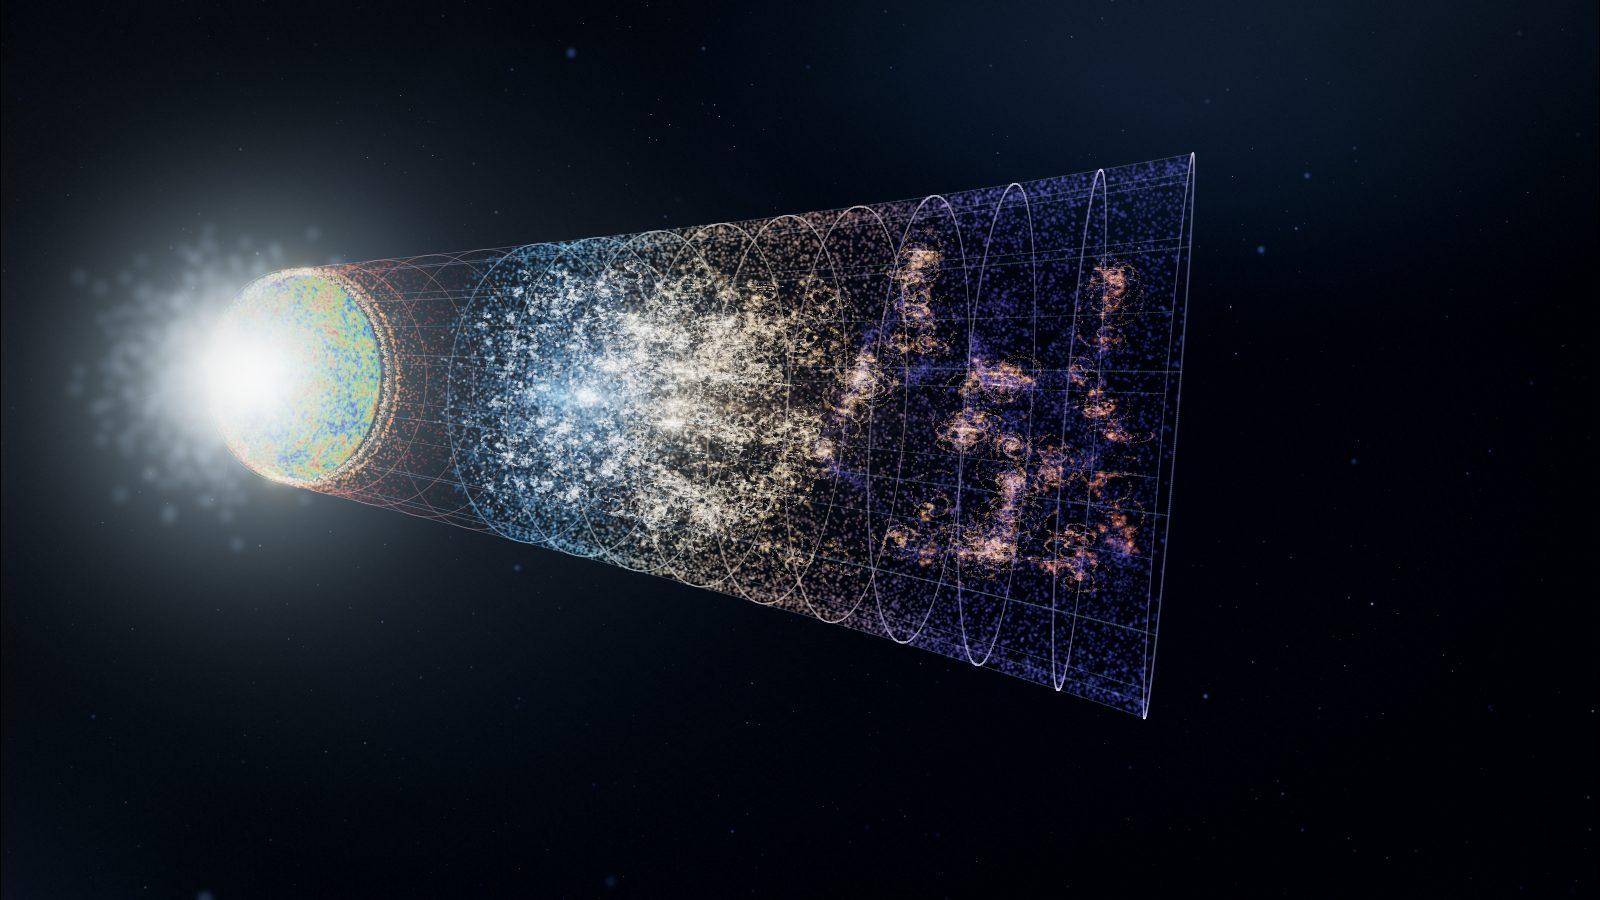
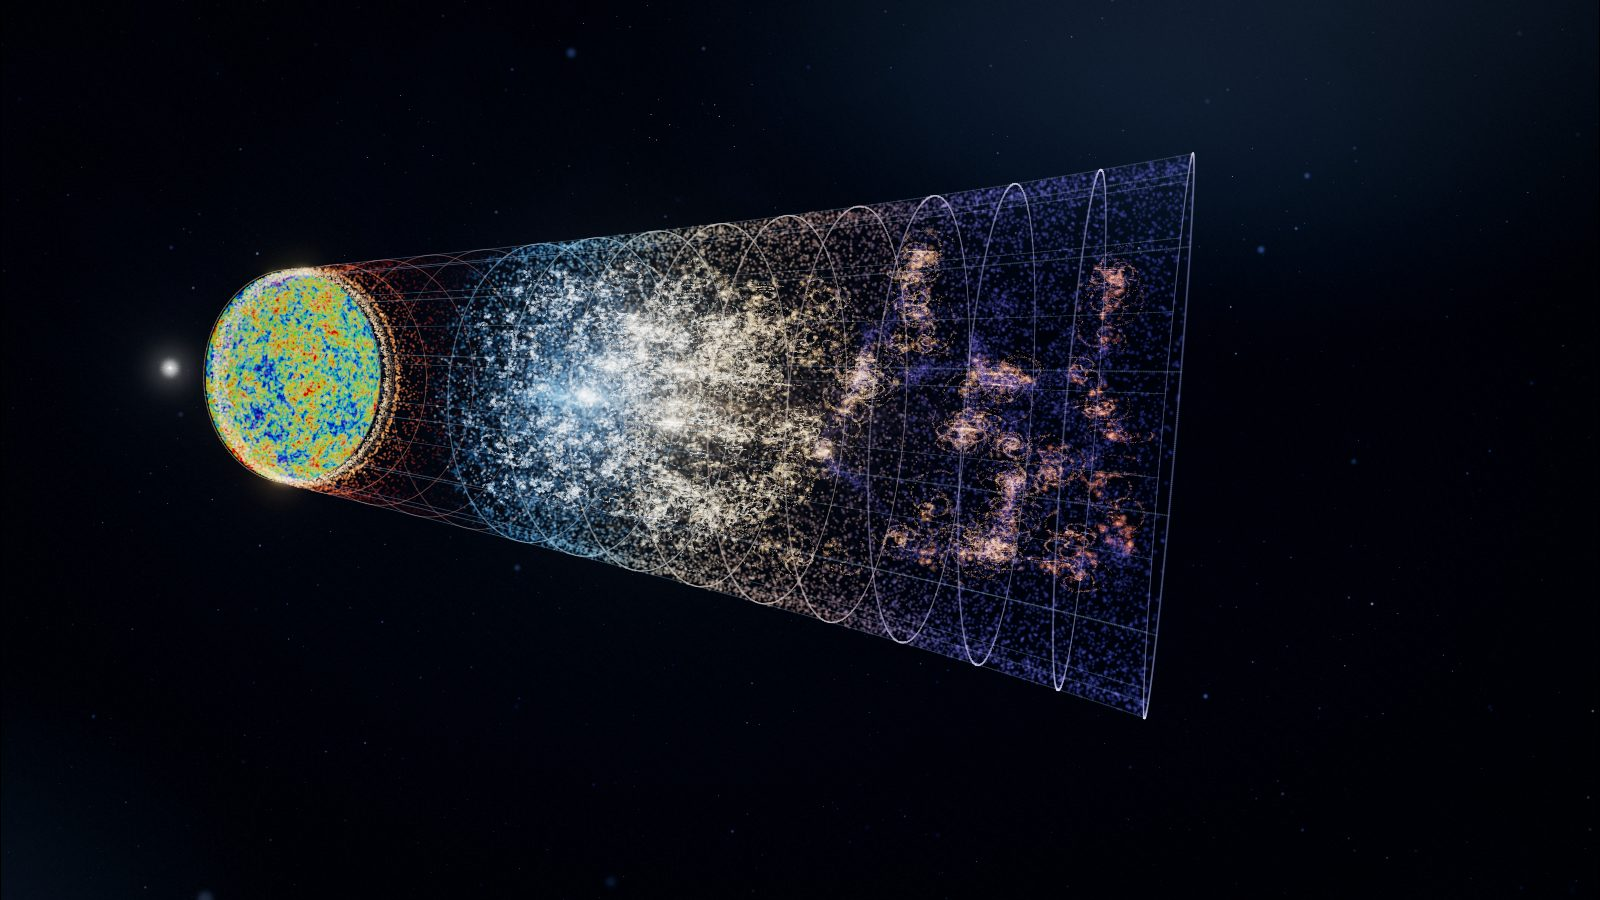
feat(innoday): the Big Bang a bright point beside the CMB disk; slide 27's hum on the slide
Owner: "don't like this fuzzy big bang should be a bit displaced, and point-like but bright".

Claude-Session: https://claude.ai/code/session_01LomYF1saeBXf9UwwiHvwyK

diff --git a/talks/2026_10_23_Innoday/setup/funnel.js b/talks/2026_10_23_Innoday/setup/funnel.js
@@ -98,7 +98,8 @@ const wallLight = (t, dawn) => t < 0 ? 0.75 : t < dawn ? 0.06 + 0.84 * Math.exp(
 
 const VERT = /* glsl */ `
 attribute vec3 aColor; attribute float aSize, aSeed, aTw, aAlpha, aFlare, aDisk, aLay, aKey;
-uniform float uTime, uSize, uAlpha, uFlare, uDisk, uBody, uMesh;
+uniform float uTime, uSize, uAlpha, uFlare, uDisk, uBody, uMesh, uOcc, uR0;
+uniform vec3 uCam;
 varying vec3 vColor; varying float vAlpha;
 ${POINT_GLSL}
 void main() {
@@ -117,7 +118,16 @@ void main() {
   // passes through the haze: no big sprite flares across the frame)
   // (the mesh from 5 units: its dotted lines, seen edge-on close by, crossed slide 6's frame)
   float near = aLay < 0.5 ? smoothstep(0.25, 0.6 + 0.5 * aSize, -mv.z) : smoothstep(1.5, 5.0, -mv.z);
-  vColor = aColor; vAlpha = uAlpha * aAlpha * tw * coverage(ps) * near * mix(1.0, uFlare, aFlare) * mix(1.0, uDisk, aDisk) * shown;
+  // the CMB disk hides what lies behind it (the neck, the Big Bang): these grains draw
+  // without a depth test, so a grain behind the disk plane whose line of sight crosses the
+  // disk is dropped (the neck's white tip showed through the map on slide 4). uCam is the
+  // camera in the funnel's frame (z along the axis, the disk at z = 0.02)
+  float occ = 1.0;
+  if (uOcc > 0.5 && position.z < 0.0 && uCam.z > 0.02) {
+    float k = (uCam.z - 0.02) / (uCam.z - position.z);
+    occ = smoothstep(uR0 * 0.97, uR0 * 1.03, length(uCam.xy + k * (position.xy - uCam.xy)));
+  }
+  vColor = aColor; vAlpha = uAlpha * aAlpha * tw * coverage(ps) * near * mix(1.0, uFlare, aFlare) * mix(1.0, uDisk, aDisk) * shown * occ;
 }`
 const FRAG = /* glsl */ `
 varying vec3 vColor; varying float vAlpha;
@@ -175,19 +185,25 @@ function buildFunnel(o, ctx) {
     add(s, r * Math.cos(t), r * Math.sin(t), ramp(WALL, s / L), 1.0, 0.3, 0.75)
   }
   // the Big Bang: a white-hot flare with a soft glow and spikes, just before the neck
-  const bb = -2.6
+  // (owner, 21 Oct: "don't like this fuzzy big bang should be a bit displaced, and
+  // point-like but bright"): a small, intense point a little before the neck's tip (-1.3),
+  // so the point, the neck and the CMB ring read apart. It was 1 300 sprites of size 4.5
+  // in a 0.6 ball and 2 600 of size 14 in a 4-unit glow: a white bloom over the disk.
+  // At -3.2 slide 4's camera saw it through the disk's face (on the axis behind the disk it
+  // projects inside the rim up to about -4.3); at -5.8 it stands just beside the rim.
+  const bb = o.bigBang ?? -5.8
   flare = 1
-  for (let i = 0; i < 1300; i++) {   // the core
-    const r = 0.6 * Math.abs(gauss(i)), t = hash(i * 2.3) * Math.PI * 2, u = hash(i * 4.1) * 2 - 1
-    add(bb + r * u, r * Math.sqrt(1 - u * u) * Math.cos(t), r * Math.sqrt(1 - u * u) * Math.sin(t), W, 4.5, 0.1, 1)
+  for (let i = 0; i < 160; i++) {    // the point: many small grains on one spot, so it blooms to a star, not a disc
+    const r = 0.05 * Math.abs(gauss(i)), t = hash(i * 2.3) * Math.PI * 2, u = hash(i * 4.1) * 2 - 1
+    add(bb + r * u, r * Math.sqrt(1 - u * u) * Math.cos(t), r * Math.sqrt(1 - u * u) * Math.sin(t), W, 1.5, 0.02, 1)
   }
-  for (let i = 0; i < 2600; i++) {   // the glow: big, soft
-    const r = 4.2 * Math.abs(gauss(i + 900)), t = hash(i * 5.9) * Math.PI * 2, u = hash(i * 6.7) * 2 - 1
-    add(bb + r * u * 0.6, r * Math.sqrt(1 - u * u) * Math.cos(t), r * Math.sqrt(1 - u * u) * Math.sin(t), [0.72, 0.86, 1], 14, 0.06, 0.4)
+  for (let i = 0; i < 400; i++) {    // a fine, short glow
+    const r = 0.38 * Math.pow(Math.abs(gauss(i + 900)), 1.4), t = hash(i * 5.9) * Math.PI * 2, u = hash(i * 6.7) * 2 - 1
+    add(bb + r * u, r * Math.sqrt(1 - u * u) * Math.cos(t), r * Math.sqrt(1 - u * u) * Math.sin(t), [0.86, 0.93, 1], 0.8, 0.05, 0.4)
   }
-  for (let k = 0; k < 10; k++) {    // spikes, as a lens draws a bright light
-    const t = (k / 10) * Math.PI * 2 + 0.2, len = 4 + 3 * hash(k * 3.3)
-    for (let i = 0; i < 160; i++) { const d = (i / 160) * len; add(bb - d * 0.15, d * Math.cos(t), d * Math.sin(t), [0.85, 0.92, 1], 1.4, 0.2, 0.8 * (1 - i / 160)) }
+  for (let k = 0; k < 6; k++) {      // six thin, short spikes along the three axes
+    const dir = [[1, 0, 0], [-1, 0, 0], [0, 1, 0], [0, -1, 0], [0, 0, 1], [0, 0, -1]][k], len = 0.9
+    for (let i = 1; i <= 60; i++) { const d = (i / 60) * len, f = 1 - i / 60; add(bb + d * dir[0], d * dir[1], d * dir[2], [0.9, 0.95, 1], 0.6, 0.05, 0.75 * f * f) }
   }
   flare = 0
   // the CMB: a disk across the narrow end; colours come from the map
@@ -361,7 +377,8 @@ function buildFunnel(o, ctx) {
   geo.setAttribute('aLay', new BufferAttribute(lay, 1)); geo.setAttribute('aKey', new BufferAttribute(key, 1))
   const mat = new ShaderMaterial({
     vertexShader: VERT, fragmentShader: FRAG, transparent: true, depthWrite: false, depthTest: false, blending: AdditiveBlending,
-    uniforms: { uTime: { value: 0 }, uView: { value: 1 }, uSize: { value: o.size ?? 1 }, uAlpha: { value: o.alpha ?? 0.6 }, uFlare: { value: 1 }, uDisk: { value: 1 }, uBody: { value: 1 }, uMesh: { value: 1 } },
+    uniforms: { uTime: { value: 0 }, uView: { value: 1 }, uSize: { value: o.size ?? 1 }, uAlpha: { value: o.alpha ?? 0.6 }, uFlare: { value: 1 }, uDisk: { value: 1 }, uBody: { value: 1 }, uMesh: { value: 1 },
+      uOcc: { value: o.cmbDisk && axis === 'z+' ? 1 : 0 }, uR0: { value: R(0) * 0.985 }, uCam: { value: new Vector3() } },
   })
   const points = new Points(geo, mat); points.frustumCulled = false
   const g = new Group(); g.add(points)
@@ -382,6 +399,7 @@ function buildFunnel(o, ctx) {
     if (diskTex && !diskUp && diskLatch.on.value) warmDisk()
     mat.uniforms.uView.value = viewScale(r)
     g.worldToLocal(cam.copy(camera.position))
+    mat.uniforms.uCam.value.copy(cam)
     const sAx = along(cam), off = across(cam)
     const k = sAx <= 0 ? 1 : Math.min(1, Math.max(0, (off / sAx - 0.6) / 0.3))
     // (to nothing: at 0.06 its spikes, seen edge-on from slide 6, still drew a white bar
@@ -425,7 +443,7 @@ function buildFunnel(o, ctx) {
   const diskMat = new MeshBasicMaterial({ color: new Color().setScalar(o.cmbTint ?? 0.85), side: DoubleSide, transparent: true })
   const disk = new Mesh(new CircleGeometry(r0d, 192), diskMat)
   disk.visible = false; disk.renderOrder = -1
-  const parts = { mat, diskMat, disk, diskReady: false, diskPx: null, group: g, geom: { L, R, place, bb: -2.6, dawn: o.dawn ?? 0.32, r0: r0d } }
+  const parts = { mat, diskMat, disk, diskReady: false, diskPx: null, group: g, geom: { L, R, place, bb, dawn: o.dawn ?? 0.32, r0: r0d } }
   if (o.cmbDisk && axis === 'z+') {
     // the circle faces +z (the mouth); its u runs with world x (b, right), v with world y (a, up)
     disk.position.set(0, 0, 0.02)

diff --git a/talks/2026_10_23_Innoday/deck.md b/talks/2026_10_23_Innoday/deck.md
@@ -119,7 +119,7 @@ space: { at: [30, 39, -119], dist: 25, yaw: -72, pitch: 13, dim: 0, flight: 3.5 
 <!-- facts: universe-age-planck-2018, cmb-formed-380000-years-esa, cosmic-web-simulation-filaments-voids -->
 
 <!--
-Kalbėtojui. Kosminio tinklo grūdeliai susibėga į piltuvą (savininkas, 2026 10 13): pirmiausia vaizdo vidurys tampa Didžiuoju sprogimu ir foninės spinduliuotės skydu, tada grūdeliai išsidėsto piltuvu iki plačiojo galo; tada piltuvas išryškėja savo erų spalvomis, o paskiausiai atsiranda jo žiedai ir linijos. Grindų tinklelio po piltuvu nebėra: piltuvas kabo tamsoje (savininkas, 2026 10 21). Kamera tuo metu apsuka ir parodo piltuvą iš šono: Visatos istorija iš grūdelių, nuo Didžiojo sprogimo (siauroji dalis, kairėje) iki šiandienos (platusis galas, arčiau mūsų). Kiekviena era atpažįstama iš savo spalvos — iš to, kas ją užpildo, ir kokia to temperatūra (savininkas, 2026 10 21). Iš kairės į dešinę: (1) Didysis sprogimas — baltai karštas blyksnis. (2) Kaklelis — karšta plazma, švyti nuo baltos iki oranžinės, kol atvėsta. (3) Foninė spinduliuotė — Planck žemėlapio skydas su oranžiškai baltu žiedu: šviesa, kuri išsilaisvino Visatai atvėsus iki maždaug 3000 K. (4) Tamsieji amžiai — ta šviesa ant piltuvo sienelės blėsta iš oranžinės į tamsiai raudoną ir užgęsta; viduje tik keli blankūs dujų grūdeliai, žvaigždžių nėra. (5) Kosminė aušra — pirmosios žvaigždės, melsvai baltos kibirkštys, kiekviena žydrame dujų burbule, kurį ji įšvietė; toliau burbulai didėja ir susilieja. (6) Galaktikos — ryškiausia juosta: baltai gelsvos galaktikos, daug spiralinių, tarp jų švytinčios dujos, tankiausios piltuvo viduryje. (7) Šiandiena — platusis galas: retesnės, senesnės, rausvesnės galaktikos išsirikiavusios violetinėmis gijomis, tarp jų tuštumos — tas pats kosminis tinklas, kuriuo baigėsi įžanginis klipas; galas platėja vis greičiau (spartėjantis plėtimasis). Kiekvienas žiedas nusidažęs savo eros spalva. Žemas ūžesys skamba tik šios ir kitos skaidrės pradžioje, apie 3 s (savininkas, 2026 10 14). Skaičius pasirodo, kai piltuvas išryškėja (~7 s). Kitoje skaidrėje kamera įskrenda į piltuvą.
+Kalbėtojui. Kosminio tinklo grūdeliai susibėga į piltuvą (savininkas, 2026 10 13): pirmiausia vaizdo vidurys tampa Didžiuoju sprogimu ir foninės spinduliuotės skydu, tada grūdeliai išsidėsto piltuvu iki plačiojo galo; tada piltuvas išryškėja savo erų spalvomis, o paskiausiai atsiranda jo žiedai ir linijos. Grindų tinklelio po piltuvu nebėra: piltuvas kabo tamsoje (savininkas, 2026 10 21). Kamera tuo metu apsuka ir parodo piltuvą iš šono: Visatos istorija iš grūdelių, nuo Didžiojo sprogimo (siauroji dalis, kairėje) iki šiandienos (platusis galas, arčiau mūsų). Kiekviena era atpažįstama iš savo spalvos — iš to, kas ją užpildo, ir kokia to temperatūra (savininkas, 2026 10 21). Iš kairės į dešinę: (1) Didysis sprogimas — mažas, ryškus baltas taškas kairėje, šiek tiek prieš piltuvo kaklelį (savininkas, 2026 10 21: ne didelis neryškus švytėjimas). (2) Kaklelis — karšta plazma, švyti nuo baltos iki oranžinės, kol atvėsta. (3) Foninė spinduliuotė — Planck žemėlapio skydas su oranžiškai baltu žiedu: šviesa, kuri išsilaisvino Visatai atvėsus iki maždaug 3000 K. (4) Tamsieji amžiai — ta šviesa ant piltuvo sienelės blėsta iš oranžinės į tamsiai raudoną ir užgęsta; viduje tik keli blankūs dujų grūdeliai, žvaigždžių nėra. (5) Kosminė aušra — pirmosios žvaigždės, melsvai baltos kibirkštys, kiekviena žydrame dujų burbule, kurį ji įšvietė; toliau burbulai didėja ir susilieja. (6) Galaktikos — ryškiausia juosta: baltai gelsvos galaktikos, daug spiralinių, tarp jų švytinčios dujos, tankiausios piltuvo viduryje. (7) Šiandiena — platusis galas: retesnės, senesnės, rausvesnės galaktikos išsirikiavusios violetinėmis gijomis, tarp jų tuštumos — tas pats kosminis tinklas, kuriuo baigėsi įžanginis klipas; galas platėja vis greičiau (spartėjantis plėtimasis). Kiekvienas žiedas nusidažęs savo eros spalva. Žemas ūžesys skamba tik šios ir kitos skaidrės pradžioje, apie 3 s (savininkas, 2026 10 14). Skaičius pasirodo, kai piltuvas išryškėja (~7 s). Kitoje skaidrėje kamera įskrenda į piltuvą.
 Sakyti: „Šis piltuvas yra Visatos istorija: siaurasis galas — Didysis sprogimas prieš 13,8 mlrd. metų, platusis — šiandien. Iš kairės: karšta plazma, seniausia šviesa, tamsieji amžiai be žvaigždžių, pirmosios žvaigždės, galaktikos ir šiandienos galaktikų tinklas. Visata plečiasi, o maždaug pastaruosius šešis milijardus metų — vis greičiau.“
 Faktai: Visatos amžius 13,787 ± 0,020 mlrd. m. (Planck 2018, A&A 641, A6); spartėjantis plėtimasis — 1998 m. atradimas (2011 m. Nobelio premija); plėtimasis spartėja maždaug pastaruosius 6 mlrd. metų (z ≈ 0,6), tamsioji energija vyrauja maždaug pastaruosius 3,5 mlrd. metų (z ≈ 0,3) (Planck 2018, ΛCDM).
 Šaltiniai: Planck 2018 results VI (A&A 641, A6).
@@ -617,11 +617,12 @@ space: { at: [22.5, 0, -14.7], dist: 70, yaw: -120, pitch: 58, dim: 0.15, hum: f
 <VideoPlayer src="cern_footage_2025_014_002.mp4" muted :controls="false" />
 
 <ClipEnd><div class="question">O kokį vaidmenį atliks Lietuva?</div></ClipEnd>
+<Drone :level="0.22" :swell="14" />
 
 <!-- facts: cern-fcc-study, cern-espp-2026, ktnews-fcc-donors, cern-run3-end -->
 
 <!--
-Kalbėtojui. Kitos mašinos problemos. Klipui baigiantis, ant paskutinio jo kadro pasirodo klausimas „O kokį vaidmenį atliks Lietuva?“ (savininkas, 2026 10 21); paskutinis kadras su klausimu lieka, kol paspausite →, o kita skaidrė — LHCb savaitės filmas — į jį atsako.
+Kalbėtojui. Kitos mašinos problemos. Po klipu skamba žemas, lėtai banguojantis ūžesys (sintezuotas, savininkas, 2026 10 21: „deep cool hum sounds“); jis sustiprėja, kai pasirodo klausimas, ir užgęsta, kai pereinama prie filmo. Klipui baigiantis, ant paskutinio jo kadro pasirodo klausimas „O kokį vaidmenį atliks Lietuva?“ (savininkas, 2026 10 21); paskutinis kadras su klausimu lieka, kol paspausite →, o kita skaidrė — LHCb savaitės filmas — į jį atsako.
 Vaizdas: CERN-FOOTAGE-2025-014-002 (2025 m. FCC žemėlapis, 18 s, be garso): kamera nusileidžia virš Ženevos baseino, 90,7 km FCC žiedas nusipiešia šalia LHC ir baigiasi pažymėtu vaizdu (LHC, FCC, Ženeva, Lemano ežeras, Alpės). © CERN.
 Sakyti: „Šių metų birželio 27 d. LHC žiede paskutinį kartą prieš ilgąją pertrauką skriejo protonai; iki 2030 m. jis pertvarkomas, kad duotų iki dešimties kartų daugiau susidūrimų. O gegužę CERN Taryba priėmė Europos dalelių fizikos strategiją: kitu greitintuvu siūlomas 91 km žiedas — Būsimasis žiedinis greitintuvas, sutrumpintai FCC. Sprendimas jį statyti laukiamas apie 2028 m. Jam reikės naujų magnetų, šaldymo ir vakuumo sistemų. Pernai gruodį pirmą kartą CERN istorijoje privatūs rėmėjai pažadėjo naujam greitintuvui apie 860 mln. eurų.“
 Faktai: FCC galimybių studija (2025 03 31): 90,7 km, vidutinis gylis ~200 m, FCC-ee kaina ~15 mlrd. CHF per ~12–15 metų. Strategija priimta 2026 05 22 Budapešte. Datos: 2026 06 27 05:52 — paskutiniai 3-iojo etapo protonai (CERN Courier); 06 29 — LHC išjungtas, prasidėjo LS3 (home.cern). Rėmėjai: Ericas ir Wendy Schmidtai, Johnas Elkannas, Breakthrough Prize fondas, Xavier'as Nielis; pažadai priklauso nuo valstybių narių sprendimo. HL-LHC fizika — nuo 2030 m. birželio iki 2041 m.
